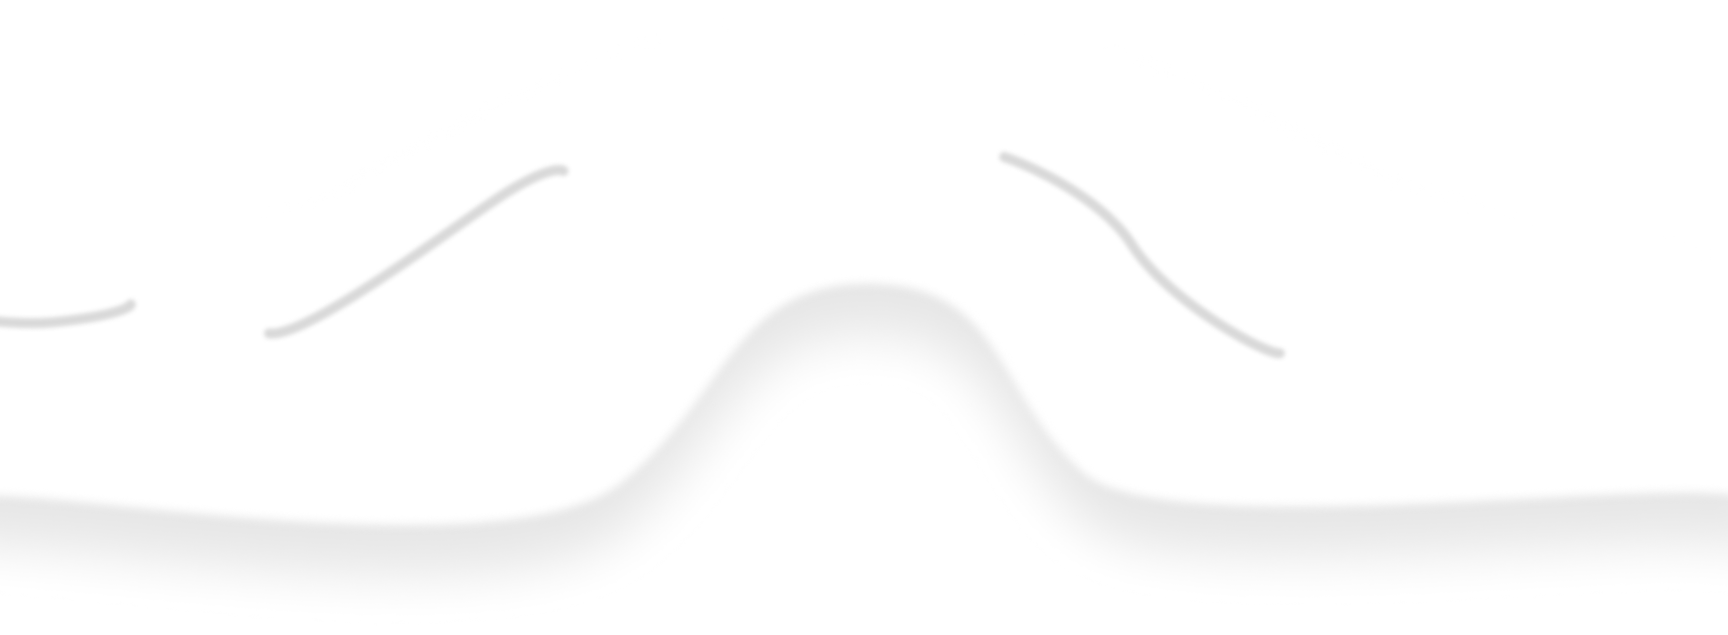
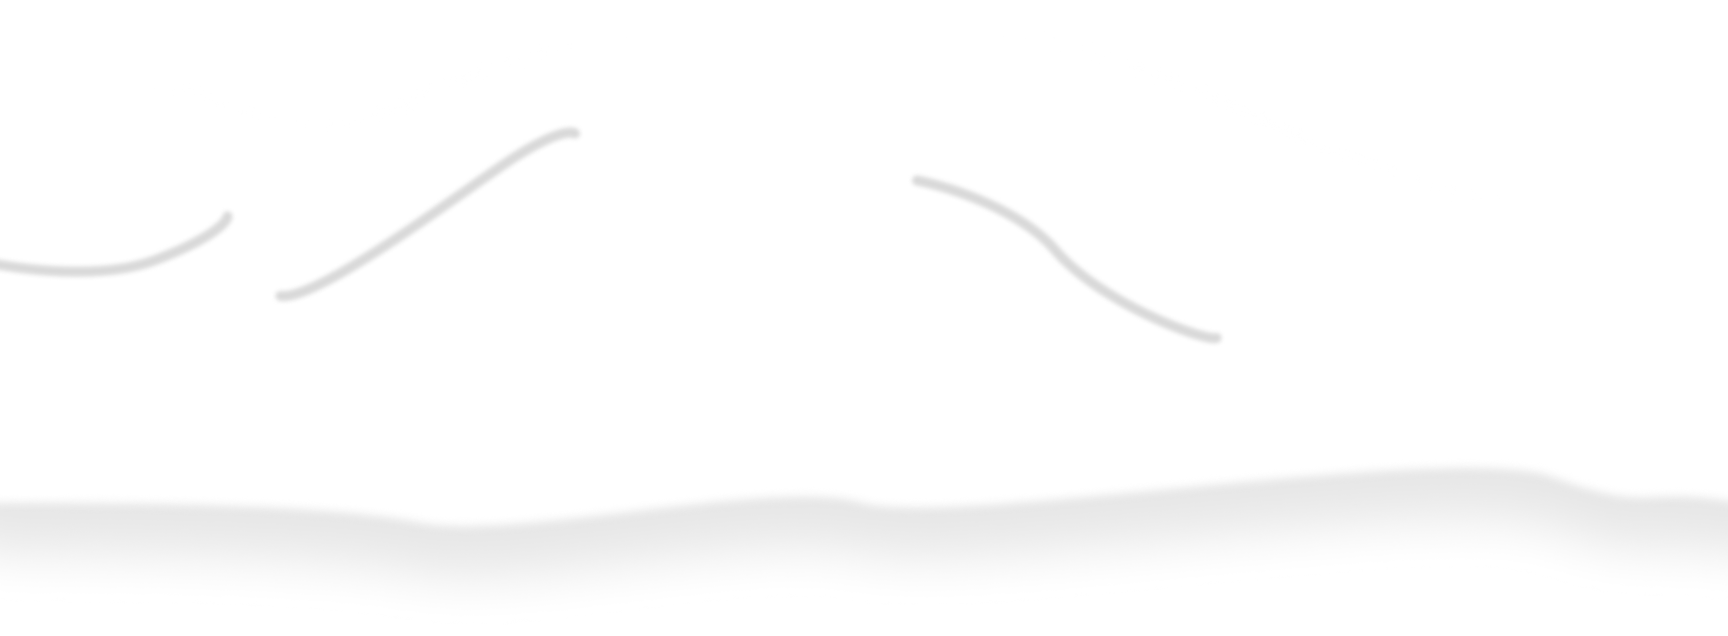
motive animation update
(ugh!!!!!!) (ugh!!!!!!) (ugh!!!!!!) (ugh!!!!!!) (ugh!!!!!!) (ugh!!!!!!) (ugh!!!!!!) (ugh!!!!!!) (ugh!!!!!!) (ugh!!!!!!)

diff --git a/web/pages/795-889.html b/web/pages/795-889.html
@@ -33,73 +33,131 @@
           Remember how I LOVE to snuggle inside your blanket?
         </h1>
 
-        <div style="position: absolute; left: 0; top: 663px; width: 100%">
-          <img
-            class="img-fit-width"
-            alt="Bed"
-            src="https://www.figma.com/api/mcp/asset/3f593eb6-3c8c-4699-a993-0a03291ff7c1"
-          />
+        <div
+          id="bed-layer"
+          style="
+            position: absolute;
+            left: 0;
+            top: 663px;
+            width: 100%;
+            transition: opacity 1000ms ease;
+          "
+        >
+          <img class="img-fit-width" alt="Bed" src="../assets/bed.png" />
         </div>
 
         <div
-          style="position: absolute; left: -10%; top: 362px; width: 120%"
+          id="blanket-layer"
+          style="
+            position: absolute;
+            left: -10%;
+            top: 362px;
+            width: 120%;
+            transition: opacity 2000ms ease;
+          "
           aria-hidden="true"
         >
           <img
             class="img-fit-width"
-            alt=""
-            src="https://www.figma.com/api/mcp/asset/a6ceeb8e-295c-426f-9def-bd149ad67174"
+            alt="blanket"
+            src="../assets/blanket.png"
           />
         </div>
 
         <!-- "Smart animation" frames combined: figurine pops in, then CTA appears -->
         <div
+          id="nose-layer"
           class="reveal"
           data-reveal="dog"
           data-delay-ms="500"
-          data-hide-ms="850"
           style="
             position: absolute;
-            left: 650px;
-            top: 631px;
-            width: 417px;
-            height: 266px;
+            left: -10%;
+            top: 362px;
+            width: 120%;
+            height: auto;
+            transition: opacity 1000ms ease;
           "
         >
           <img
-            class="img img-contain"
+            class="img-fit-width"
             alt="Dog nose"
-            src="https://www.figma.com/api/mcp/asset/5c14e7d9-a307-47ce-8e78-e6a1095bb91e"
+            src="../assets/nose-under-blanket.png"
           />
         </div>
 
         <div
-          class="pop-in"
-          data-animate="pop-in"
-          data-delay-ms="900"
+          id="figurine-layer"
           style="
             position: absolute;
             left: 204px;
             top: 333px;
             width: 1059px;
             height: 660.491px;
+            opacity: 0;
+            transition: opacity 1000ms ease;
           "
         >
           <img
             class="img img-contain"
             alt="Abstract figurine"
-            src="https://www.figma.com/api/mcp/asset/5d329922-1019-4340-8352-78ef813d39a8"
+            src="../assets/figurine.png"
           />
         </div>
 
-        <a
-          class="btn btn-outline reveal"
-          data-reveal="cta"
-          data-delay-ms="1400"
-          href="./795-1026.html"
-          style="position: absolute; left: 1253px; top: 953px; width: 375px"
-          >Next</a
+        <section
+          id="progress-scene"
+          style="
+            position: absolute;
+            inset: 0;
+            background: #c4cecb;
+            opacity: 0;
+            pointer-events: none;
+            transition: opacity 900ms ease;
+          "
+          aria-hidden="true"
         >
+          <div class="table" aria-hidden="true"></div>
+          <div style="position: absolute; left: 317px; top: 266px; width: 1059px; height: 660.491px">
+            <img class="img img-contain" alt="Figurine" src="../assets/figurine.png" />
+          </div>
+
+          <a
+            class="btn btn-outline"
+            href="./868-977.html"
+            style="position: absolute; left: 1253px; top: 953px; width: 375px; z-index: 3"
+            >Next</a
+          >
+        </section>
+        <script>
+          (() => {
+            const blanket = document.getElementById("blanket-layer");
+            const bed = document.getElementById("bed-layer");
+            const nose = document.getElementById("nose-layer");
+            const figurine = document.getElementById("figurine-layer");
+            const progressScene = document.getElementById("progress-scene");
+            if (!blanket || !bed || !nose || !figurine || !progressScene) return;
+
+            // After nose-under-blanket is fully revealed, remove blanket layer.
+            window.setTimeout(() => {
+              blanket.classList.add("u-hidden");
+            }, 500);
+
+            // After blanket dissolve finishes, fade nose out and figurine in.
+            window.setTimeout(() => {
+              nose.classList.add("u-hidden");
+              figurine.style.opacity = "1";
+              bed.classList.add("u-hidden");
+            }, 2000);
+
+            // Start transitioning into the additional frame while bed is fading out.
+            window.setTimeout(() => {
+              progressScene.style.opacity = "1";
+              progressScene.style.pointerEvents = "auto";
+              progressScene.setAttribute("aria-hidden", "false");
+            }, 2000);
+          })();
+        </script>
       </main>
     </div>
   </body>
